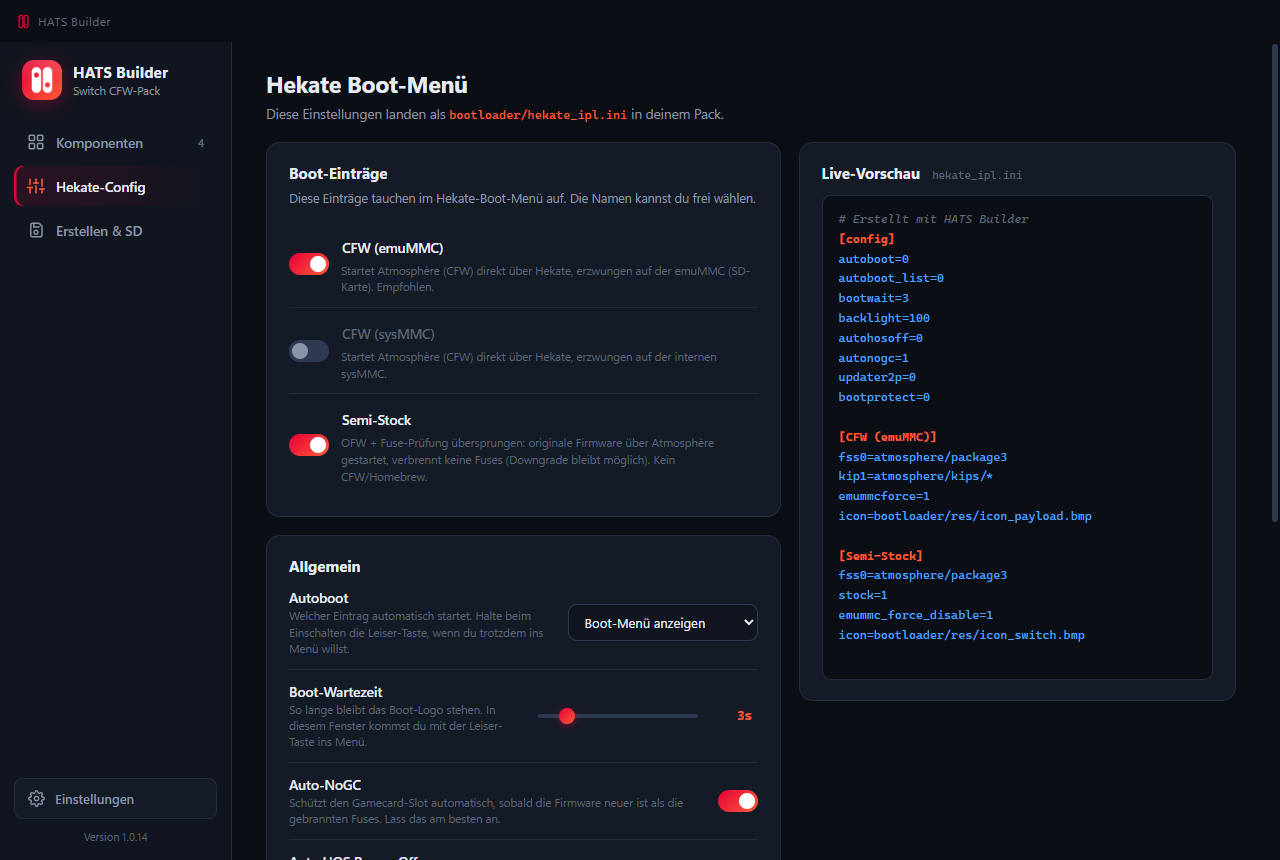
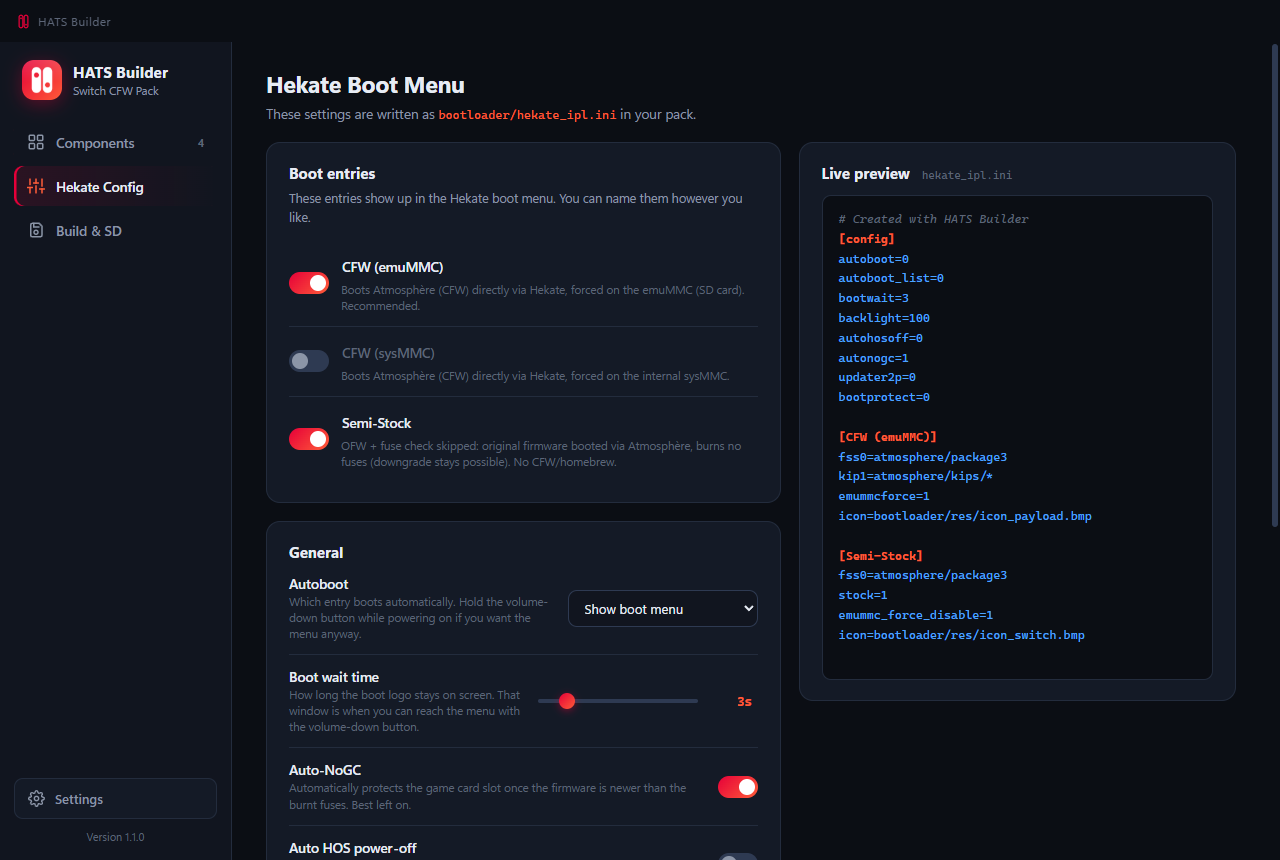
README menschlicher geschrieben, englische Screenshots, INI-Kommentar uebersetzt; Version 1.1.1
README: Die Texte klingen jetzt wie erzaehlt statt wie eine Merkmalsliste,
in beiden Sprachen. Die beiden Screenshots kommen aus der englischen
Oberflaeche und liegen unter docs/.

INI: Die Kommentarzeile ganz oben in der erzeugten hekate_ipl.ini war fest
deutsch, auch in der englischen Oberflaeche. Sie steht in der Live-Vorschau
direkt neben englischen Texten und ist jetzt uebersetzt.

diff --git a/main/hekate.js b/main/hekate.js
@@ -3,6 +3,8 @@
 // Erzeugt bootloader/hekate_ipl.ini aus den Einstellungen des Config-Tabs.
 // Referenz: https://github.com/CTCaer/hekate#hekate_iplini-configuration
 
+const { mt } = require('./messages');
+
 const DEFAULT_HEKATE = {
   autoboot: '',       // '' = Boot-Menü anzeigen, sonst SCHLÜSSEL des Eintrags (z. B. 'semistock')
   bootwait: 3,        // Sekunden, die das Boot-Logo angezeigt wird (0-20)
@@ -126,7 +128,7 @@ function generateIni(config) {
   const autobootIndex = c.autoboot ? enabledKeys.indexOf(c.autoboot) + 1 : 0;
 
   const lines = [
-    '# Erstellt mit HATS Builder',
+    `# ${mt('ini.createdWith')}`,
     '[config]',
     `autoboot=${autobootIndex}`,
     'autoboot_list=0',

diff --git a/main/messages.js b/main/messages.js
@@ -167,6 +167,12 @@ const M = {
     de: 'unbekannt',
     en: 'unknown',
   },
+  // Kommentar-Zeile ganz oben in der erzeugten hekate_ipl.ini. Steht auch in
+  // der Live-Vorschau, gehört also genauso übersetzt wie der Rest.
+  'ini.createdWith': {
+    de: 'Erstellt mit HATS Builder',
+    en: 'Created with HATS Builder',
+  },
 };
 
 function mt(key, ...args) {

diff --git a/README.md b/README.md
@@ -1,31 +1,39 @@
 # HATS Builder
 
-| Komponenten | Hekate-Config |
+| Components | Hekate Config |
 |---|---|
-| [![Komponenten-Ansicht](docs/komponenten.png)](docs/komponenten.png) | [![Hekate-Config-Ansicht](docs/hekate-config.png)](docs/hekate-config.png) |
+| [![Komponenten-Ansicht](docs/components.png)](docs/components.png) | [![Hekate-Config-Ansicht](docs/hekate-config.png)](docs/hekate-config.png) |
 
 <details>
 <summary><b>🇩🇪 Deutsch</b></summary>
 
 <br>
 
-HATS Builder ist eine Windows-App, die dir ein komplettes CFW-Paket für deine gemoddete Nintendo Switch zusammenstellt. Alle Komponenten kommen direkt aus den offiziellen GitHub-Releases der jeweiligen Entwickler, immer in der aktuellsten Version. Die Oberfläche gibt es auf Deutsch und Englisch, umschalten kannst du sie in den Einstellungen.
+HATS Builder stellt dir das komplette CFW-Paket für deine gemoddete Switch zusammen. Du klickst an, was drauf soll, und die App holt jede Komponente frisch aus dem offiziellen GitHub-Release ihres Entwicklers. Kein Repack, keine veralteten Dateien, nichts aus zweiter Hand.
 
-### Was die App kann
+Die Oberfläche gibt es auf Deutsch und Englisch, umschalten kannst du sie in den Einstellungen.
 
-Es gibt drei Tabs.
+### Was dich erwartet
 
-**Komponenten.** Hier wählst du aus, was in dein Pack kommt. Es gibt ein Suchfeld, und ein Klick auf die Version zeigt dir, was sich in dem Release geändert hat. Die App fragt GitHub live ab, du bekommst also immer die neueste Version. Wenn eine Komponente eine andere braucht, aktiviert die App diese einfach mit. FPSLocker braucht zum Beispiel SaltyNX. Ein Eintrag ist gekennzeichnet, damit du weißt, was er ist: sys-patch ist ein Sigpatch, umgeht also Signaturprüfungen.
+**Komponenten.** Hier stellst du dein Pack zusammen. Über 30 Sachen stehen bereit, von Atmosphère und Hekate über Homebrew-Apps bis zu den Tesla-Overlays. Ein Suchfeld ist da, und wenn du auf eine Versionsnummer klickst, siehst du sofort, was sich im Release geändert hat.
 
-**Hekate-Config.** Hier richtest du das Boot-Menü ein. Du legst fest, welcher Eintrag automatisch startet, wie lange das Boot-Logo zu sehen ist, ob Auto-NoGC an ist und noch ein paar Dinge mehr. Dazu siehst du eine Live-Vorschau der hekate_ipl.ini, die in dein Pack kommt. In einem eigenen Bereich kannst du Nintendos Server per DNS blocken. Für emuMMC ist das standardmäßig an, für sysMMC aus, und du kannst beides umstellen. Schaltest du die Sperre ab, fragt die App noch einmal nach, denn eine ungeschützte Konsole wird sehr wahrscheinlich gesperrt.
+Um Abhängigkeiten musst du dich nicht kümmern. Schaltest du FPSLocker an, kommt SaltyNX von allein mit. Und wo es darauf ankommt, sagt dir die App, womit du es zu tun hast: sys-patch trägt ein Sigpatch-Kennzeichen, weil es Signaturprüfungen umgeht.
 
-**Erstellen und SD.** Die App lädt die neuesten Versionen in einen eigenen Ordner und kopiert ihn auf Wunsch direkt auf deine Karte. Dabei führt sie alles zusammen, deine Spielstände, der Nintendo-Ordner und die emuMMC bleiben also unangetastet. Vor dem Kopieren prüft sie, ob das Pack überhaupt draufpasst, und sagt dir, welche deiner eigenen Konfigurationsdateien überschrieben würden. Sowohl das Erstellen als auch das Kopieren lässt sich jederzeit abbrechen.
+**Hekate-Config.** Das Boot-Menü, so wie du es haben willst. Welcher Eintrag automatisch startet, wie lange das Logo stehen bleibt, ob Auto-NoGC an ist. Rechts läuft eine Live-Vorschau der `hekate_ipl.ini` mit, du siehst also beim Klicken, was am Ende auf der Karte landet.
 
-### Starten
+Weiter unten blockst du Nintendos Server per DNS. Für die emuMMC ist das an, für die sysMMC aus. Schaltest du es ab, fragt die App noch einmal nach, denn eine ungeschützte Konsole wird sehr wahrscheinlich gesperrt.
 
-Nimm `HATS Builder.exe` (die ist portabel, einfach doppelklicken) oder führe den Installer `HATS Builder Setup.exe` aus. Die App legt sich den Ordner `Switch-SD-Pack` auf dem Desktop an. Wählst du selbst einen Ort wie den Desktop oder die Dokumente, entsteht dort ebenfalls ein eigener Unterordner, damit nichts zwischen deine anderen Dateien gerät.
+**Erstellen und SD.** Ein Klick, und die App lädt alles herunter und legt dir den fertigen Ordner an. Steckt deine Karte schon im Rechner, kopiert sie ihn auf Wunsch gleich drauf.
 
-Die App hält sich selbst aktuell. Beim Start schaut sie nach, ob es etwas Neueres gibt, und blendet dann oben einen Balken ein. Ein Klick lädt die passende Datei, danach startet sich die App neu und ist auf dem neuen Stand. Auf GitHub musst du dafür nicht mehr. Die Prüfung kannst du auch jederzeit in den Einstellungen anstoßen.
+Dabei wird zusammengeführt statt plattgemacht: Spielstände, der Nintendo-Ordner und deine emuMMC bleiben, wie sie sind. Vorher schaut die App nach, ob das Pack überhaupt draufpasst, und sagt dir, welche deiner eigenen Konfigurationsdateien sie überschreiben würde. Abbrechen kannst du jederzeit, beim Laden wie beim Kopieren.
+
+### Loslegen
+
+Nimm `HATS Builder.exe`, die ist portabel, ein Doppelklick genügt. Wer es lieber installiert mag, nimmt `HATS Builder Setup.exe`.
+
+Das fertige Pack landet in `Switch-SD-Pack` auf dem Desktop. Suchst du dir selbst einen Ort aus, legt die App auch dort einen eigenen Unterordner an, damit dir nichts zwischen die anderen Dateien rutscht.
+
+Um Updates musst du dich nicht kümmern. Beim Start schaut die App nach, blendet oben einen Balken ein, wenn etwas Neues da ist, und spielt es auf Klick selbst ein. Danach startet sie neu und ist aktuell. Auf GitHub musst du dafür nicht mehr.
 
 ### Selbst bauen
 
@@ -35,13 +43,17 @@ npm start        (Entwicklungsmodus)
 npm run dist     (EXE bauen)
 ```
 
-### Hinweise
+### Gut zu wissen
 
-Deine SD-Karte sollte FAT32 sein, bei exFAT warnt dich die App. Wenn du in den Einstellungen ein kostenloses GitHub-Token hinterlegst, steigt das API-Limit von 60 auf 5.000 Abfragen pro Stunde. HATS Builder ist für eine bereits gemoddete Switch gedacht, egal ob per Modchip oder RCM, und die `payload.bin` landet von allein im SD-Root.
+Deine SD-Karte sollte FAT32 sein. Ist sie exFAT, sagt dir die App Bescheid, denn bei einem Absturz kann exFAT dir die Karte zerlegen.
 
-### Vorschläge und Fehler
+Ohne Anmeldung erlaubt GitHub 60 Abfragen pro Stunde, und das reicht im Alltag. Wird es dir zu knapp, hinterleg in den Einstellungen ein kostenloses GitHub-Token, dann sind es 5.000. Berechtigungen braucht das Token keine, und es bleibt auf deinem Rechner.
 
-Dir fehlt eine Komponente, du hast eine Idee für eine Funktion oder etwas läuft nicht rund? Mach gern ein [Issue auf GitHub](https://github.com/Mitoxe113/HATS-Builder/issues/new) auf. Vorschläge sind ausdrücklich willkommen, und bei einem Fehler hilft es sehr, wenn du dazuschreibst, was du gemacht hast und was stattdessen passiert ist.
+HATS Builder setzt voraus, dass deine Switch schon gemoddet ist, ob per Modchip oder RCM. Die `payload.bin` landet von allein im Wurzelverzeichnis der Karte.
+
+### Ideen und Fehler
+
+Fehlt dir eine Komponente, hast du eine Idee, oder läuft etwas nicht rund? Mach gern ein [Issue auf GitHub](https://github.com/Mitoxe113/HATS-Builder/issues/new) auf, Vorschläge sind ausdrücklich willkommen. Bei einem Fehler hilft es sehr, wenn du kurz dazuschreibst, was du gemacht hast und was stattdessen passiert ist.
 
 </details>
 
@@ -50,23 +62,31 @@ Dir fehlt eine Komponente, du hast eine Idee für eine Funktion oder etwas läuf
 
 <br>
 
-HATS Builder is a Windows app that builds a complete CFW pack for your modded Nintendo Switch. Every component comes straight from its developer's official GitHub releases, always in the newest version. The interface comes in German and English, and you can switch it in the settings.
+HATS Builder puts together the whole CFW pack for your modded Switch. You tick what you want, and the app pulls every component straight from its developer's official GitHub release. No repacks, no stale files, nothing second hand.
 
-### What the app does
+The interface comes in German and English, and you can switch it in the settings.
 
-There are three tabs.
+### What you get
 
-**Components.** Here you pick what goes into your pack. There's a search box, and clicking a version shows you what changed in that release. The app checks GitHub live, so you always get the latest version of each item. When something needs another component, the app simply enables that one for you. FPSLocker needs SaltyNX, for example. One entry is marked so you know what it is: sys-patch is a sigpatch, which means it bypasses signature checks.
+**Components.** This is where you put your pack together. Over 30 things are on offer, from Atmosphère and Hekate through homebrew apps to the Tesla overlays. There's a search box, and clicking a version number shows you right away what changed in that release.
 
-**Hekate Config.** This is where you set up the boot menu. You decide which entry boots automatically, how long the boot logo stays on screen, whether Auto-NoGC is on, and a few more things. You also get a live preview of the hekate_ipl.ini that ends up in your pack. There is a separate section for blocking Nintendo's servers via DNS. It is on for emuMMC and off for sysMMC by default, and you can flip both. If you switch the block off, the app asks you to confirm, because an unprotected console is very likely to get banned.
+Dependencies aren't your problem. Turn on FPSLocker and SaltyNX comes along by itself. And where it matters, the app tells you what you're dealing with: sys-patch carries a sigpatch label, because it bypasses signature checks.
 
-**Build and SD.** The app downloads the latest versions into a folder of its own and copies it straight onto your card if you want. It merges everything, so your saves, the Nintendo folder and your emuMMC stay untouched. Before copying it checks that the pack actually fits and tells you which of your own config files would be overwritten. Both the build and the copy can be cancelled at any time.
+**Hekate Config.** The boot menu, the way you want it. Which entry boots on its own, how long the logo stays up, whether Auto-NoGC is on. A live preview of the `hekate_ipl.ini` runs alongside, so you see what ends up on the card while you click.
 
-### Running it
+Further down you block Nintendo's servers via DNS. It's on for the emuMMC and off for the sysMMC. Switch it off and the app asks you to confirm, because an unprotected console is very likely to get banned.
 
-Grab `HATS Builder.exe` (it's portable, just double click it) or run the installer `HATS Builder Setup.exe`. The app creates a `Switch-SD-Pack` folder on your desktop. If you pick a place like the desktop or your documents yourself, it creates a subfolder there too, so nothing ends up among your other files.
+**Build and SD.** One click and the app downloads everything and builds you the finished folder. If your card is already in the reader, it copies the folder over for you.
 
-The app keeps itself up to date. On startup it checks whether something newer is out and shows a bar at the top. One click downloads the right file, then the app restarts itself on the new version. No trip to GitHub needed. You can also trigger the check yourself in the settings.
+It merges rather than wipes: your saves, the Nintendo folder and your emuMMC stay exactly as they are. Before it starts, the app checks the pack actually fits and tells you which of your own config files it would overwrite. You can cancel at any point, while downloading and while copying.
+
+### Getting started
+
+Grab `HATS Builder.exe`, it's portable and a double click is all it takes. If you'd rather install it, run `HATS Builder Setup.exe`.
+
+The finished pack lands in `Switch-SD-Pack` on your desktop. Pick your own spot and the app still creates a subfolder there, so nothing slips in among your other files.
+
+Updates take care of themselves. The app checks on startup, shows a bar at the top when something new is out, and installs it for you at a click. Then it restarts and you're current. No trip to GitHub needed.
 
 ### Building it yourself
 
@@ -76,12 +96,16 @@ npm start        (run in dev mode)
 npm run dist     (build the EXE)
 ```
 
-### Notes
+### Worth knowing
 
-Your SD card should be FAT32, and the app warns you if it's exFAT. If you add a free GitHub token in the settings, the API limit jumps from 60 to 5,000 requests per hour. HATS Builder is meant for a Switch that's already modded, whether by modchip or RCM, and the `payload.bin` lands in the SD root on its own.
+Your SD card should be FAT32. If it's exFAT the app says so, because exFAT can wreck a card when something crashes.
 
-### Suggestions and bugs
+Without signing in, GitHub allows 60 requests an hour, which is plenty day to day. If that gets tight, add a free GitHub token in the settings and you get 5,000. The token needs no permissions at all, and it stays on your machine.
 
-Missing a component, got an idea for a feature, or did something go wrong? Feel free to open an [issue on GitHub](https://github.com/Mitoxe113/HATS-Builder/issues/new). Suggestions are genuinely welcome, and for a bug it helps a lot if you add what you did and what happened instead.
+HATS Builder assumes your Switch is already modded, whether by modchip or RCM. The `payload.bin` lands in the root of the card on its own.
+
+### Ideas and bugs
+
+Missing a component, got an idea, or did something go wrong? Feel free to open an [issue on GitHub](https://github.com/Mitoxe113/HATS-Builder/issues/new), suggestions are genuinely welcome. For a bug it helps a lot if you add what you did and what happened instead.
 
 </details>
